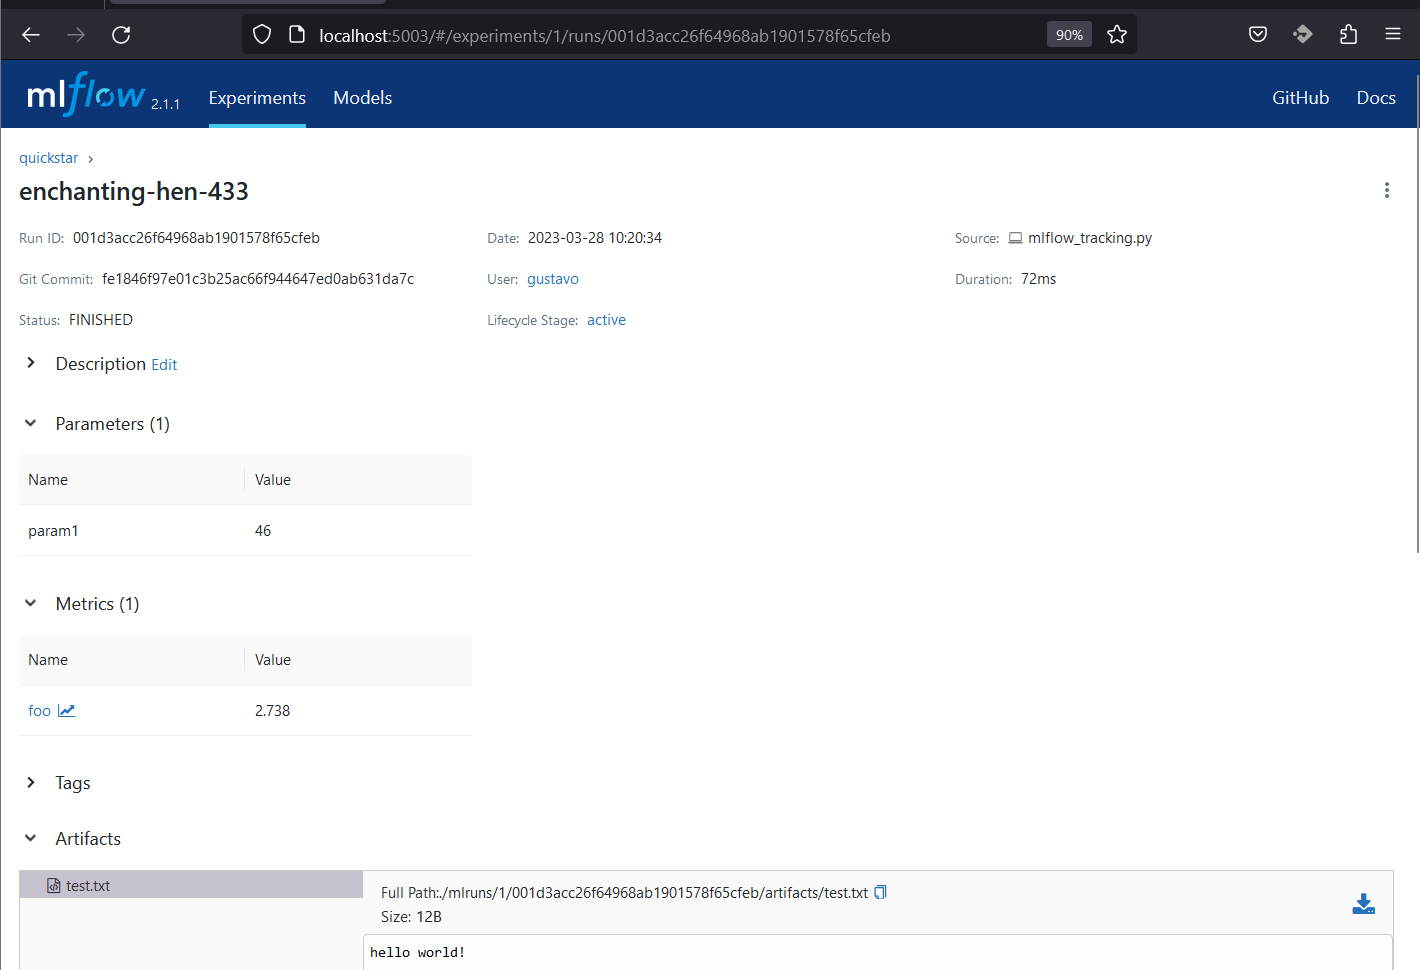
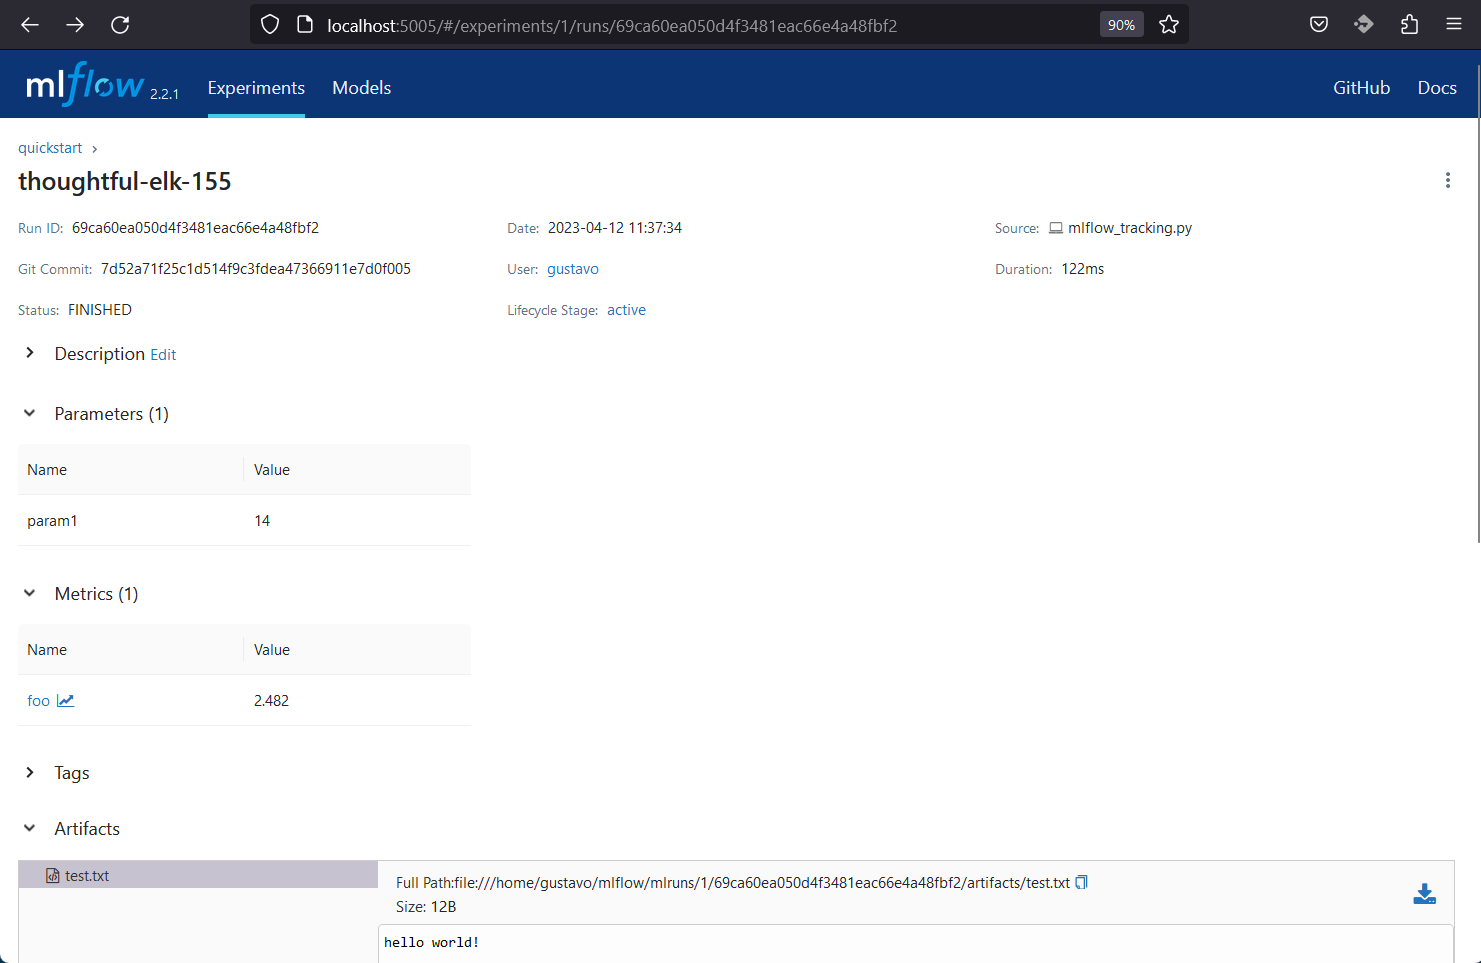
Finished and published 3_MLflow_Tracking_Server_in_Docker

diff --git a/3_MLflow_Tracking_Server_in_Docker/README.md b/3_MLflow_Tracking_Server_in_Docker/README.md
@@ -645,42 +645,50 @@ Open three different terminals under `lab3`:
 Let's inspect `lab3` folder. On **terminal 1** under `lab3`, run `tree .`:
 
 ```bash
-$ tree .
+$ tree -a .
 .
+├── .env
+├── .gitignore
 ├── .secrets
 │   ├── env-secrets
 │   ├── mysql-mlflowuser-password.txt
 │   └── mysql-root-password.txt
+├── README.md
+├── docker-compose.yml
 ├── examples
-│   ├── quickstart
+│   ├── palmer_pinguins
+│   │   ├── .gitignore
+│   │   ├── data
+│   │   │   └── penguins_classification.csv
 │   │   ├── img
 │   │   │   ├── ...
-│   │   └── mlflow_tracking.py
-│   └── palmer_pinguins
-│       ├── data
-│       │   └── penguins_classification.csv
+│   │   └── notebooks
+│   │       └── 1_Run_and_track_experiments.ipynb
+│   └── quickstart
 │       ├── img
 │       │   ├── ...
-│       └── notebooks
-│           ├── 1_Run_and_track_experiments.ipynb
-│           ├── 2_Deploy_and_manage.ipynb
-│           └── 3_Tips_and_tricks.ipynb
+│       ├── mlflow_tracking.py
+│       └── utils
+│           ├── __init__.py
+│           ├── __pycache__
+│           │   ├── __init__.cpython-310.pyc
+│           │   └── process_info.cpython-310.pyc
+│           └── process_info.py
 ├── mlflow
 │   ├── .dockerignore
-│   ├── conda.yml
-│   ├── Dockerfile
+│   ├── Dockerfile-as-gustavo
+│   ├── Dockerfile-as-root
 │   ├── Dockerfile-conda
+│   ├── conda.yml
 │   ├── entrypoint-conda-dev.sh
 │   ├── entrypoint-pip-dev.sh
 │   ├── entrypoint.sh
 │   └── requirements.txt
-├── .env
-├── .gitignore
-├── docker-compose.yml
-├── README.md
 ├── show_all.sh
 ├── stack_deploy.sh
 └── stack_remove.sh
+
+11 directories, 60 files
 ```
 
 We have the same two examples as before:
@@ -750,11 +758,12 @@ Process Status: R (running)
 Process UID: 1000
 Process Owner: gustavo
 Current tracking uri: http://localhost:5005
+INFO mlflow.tracking.fluent: Experiment with name 'quickstart' does not exist. Creating a new experiment.
 Current artifact store uri: file:///home/gustavo/mlflow/mlruns/1
 Current working directory: /home/gustavo/training/GitHub/Training.MLOps.MLFlow/lab3
 Temporal directory '/home/gustavo/training/GitHub/Training.MLOps.MLFlow/lab3/examples/quickstart/outputs' created
 Tracked artifacts in temp 'examples/quickstart/outputs' folder!
-Artifacts full path: file:///home/gustavo/mlflow/mlruns/0/c38ace2a2b7b4a239246f7639ef940c6/artifacts
+Artifacts full path: file:///home/gustavo/mlflow/mlruns/1/69ca60ea050d4f3481eac66e4a48fbf2/artifacts
 Temporal directory '/home/gustavo/training/GitHub/Training.MLOps.MLFlow/lab3/examples/quickstart/outputs' has been removed successfully
 ```
 
@@ -769,13 +778,37 @@ Once again, we have managed to track parameters, metrics and a dummy artifact 't
 ## 6. How MLflow records the path to the artifact store for each experiment
 [Go to Index](./README.md#3-move-your-mlflow-tracking-server-to-docker)
 
-MLflow records an URI to the artifact store for each experiment by creating an artifact repository for each run, and storing the URI to the repository in the MLflow server. When an artifact is logged using MLflow, it is saved by the client in the artifact repository associated with the current run. The URI to the artifact store is specified by setting the `DEFAULT_ARTIFACT_ROOT` server environment variable, or by passing the `--default-artifact-root` flag to the mlflow server command, and the client gets that URI by asking the server. The client knows what tracking server to ask thanks to the `MLFLOW_TRACKING_URI` client's environment variable.
+MLflow records an URI to the artifact store for each experiment by creating an artifact repository for each run, and storing the URI to the repository in the MLflow server. 
+
+See the column `artifact_location` in the `experiments` table in the MLflow server database:
+
+<img src='./examples/quickstart/img/quickstart_experiment_artifacts_location.png' alt='' width='1000'>
+
+When an artifact is logged using MLflow, it is saved by the client in the artifact repository associated with the current run. The URI to the artifact store is specified by setting the `DEFAULT_ARTIFACT_ROOT` server environment variable, or by passing the `--default-artifact-root` flag to the mlflow server command, and the client gets that URI by asking the server. The client knows what tracking server to ask thanks to the `MLFLOW_TRACKING_URI` client's environment variable.
+
+In our Scenario 3b, once the client has been instructed to use the MLflow HTTP tracking server, it will ask the server for the URI to the artifact store. The server will respond with the URI to the artifact store that was recorded in the experiment properties in the server database. This URI is the one that was set by the `--default-artifact-root` flag when the server was launched.
+
+Then, the client tracks the artifacts for the current run locally in the `mlruns` folder:
+
+```bash
+$ tree /home/gustavo/mlflow/mlruns
+
+/home/gustavo/mlflow/mlruns
+└── 1
+    └── 69ca60ea050d4f3481eac66e4a48fbf2
+        └── artifacts
+            └── test.txt
+```
+
+and the server will record the URI to the artifact store for this particular run in the database:
+
+<img src='./examples/quickstart/img/quickstart_first_run_artifacts_location.png' alt='' width='1000'>
 
 The ability to record the URI to the artifact store for each experiment is important in scenarios where the tracking server and client are running on different machines, as it allows both, the client and the server, to locate and retrieve artifacts associated with a particular experiment.
 
-If the kind of URI to the artifact store is a folder path, and client and server are in two different machines, then we are dealing with paths in two different file systems. When the server reports to the client its path to the artifact store (as it was recorded in the experiment properties in the server database), it can potentially report an invalid path for the client and it can cause issues with accessing the artifacts. This is the case for our client and server in Scenario 3b, and the reason why this is not an official scenario.
+If the kind of URI to the artifact store **is a folder path**, and client and server are in two different machines, **then we are dealing with paths in two different file systems**. When the server reports to the client its path to the artifact store (as it was recorded in the experiment properties in the server database), it can potentially report an invalid path for the client and it can cause issues with accessing the artifacts. This is the case for our client and server in Scenario 3b, and possibly the reason why this is not an official scenario.
 
-The good news is that you can easily overcome these potential issues. You just need to ensure that the client and server are both directed to the same artifacts folder by forcing them to use the exact same artifacts folder path and - thanks to Docker - by bind mounting this two folders. Note that you will only need set the environment variable for the artifact store path on the server. The only way the client will correctly get that folder path by asking the server.  
+**The good news is that you can easily overcome these potential issues**. You just need to ensure that the client and server are both directed to the same artifacts folder by forcing them to use the **exact same artifacts folder path route** and - thanks to Docker - by **bind mounting this two folders**. Note that you will only need set the environment variable for the artifact store path on the server. The only way the client will correctly get that folder path by asking the server.  
 
 In our example we have used a single route `/home/gustavo/mlflow` in both, the client and the dockerized server, and then bind mounted this two folders in the `docker-compose.yml` file:
 
@@ -792,15 +825,13 @@ services:
             - /home/gustavo/mlflow:/home/gustavo/mlflow
 ```
 
-A more general solution to address this scenario is to use a shared network file system, such as NFS, or a distributed file system like Hadoop Distributed File System (HDFS) or GlusterFS. By doing so, you eliminate the need for paths on different file systems, as now both the client and server would be using the same shared file system. This ensures that the artifact store is easily accessible by both the client and server, without any issues related to different file systems.
+A more general solution to address this scenario is **to use a shared network file system**, such as NFS, or a distributed file system like Hadoop Distributed File System (HDFS) or GlusterFS. By doing so, you eliminate the need for paths on different file systems, as now both the client and server would be using the same shared file system. This ensures that the artifact store is easily accessible by both the client and server, without any issues related to different file systems.
 
-Additionally, you can also configure MLflow to use a cloud-based storage solution like Azure Blob Storage or Amazon S3, which would eliminate the need for coordinating file systems as we have shown here
-
+Additionally, **you can also configure MLflow to use a cloud-based storage solution like Azure Blob Storage or Amazon S3**, which would eliminate the need for coordinating file systems as we have shown here.
 
 ## 7. Summary
 [Go to Index](./README.md#3-move-your-mlflow-tracking-server-to-docker)
 
 In this article, we've explored the Scenario 3b, a use case for MLflow in which the tracking server and client are potentially running on different machines, with the server in a docker host. We've shown how to build a basic Docker image for MLflow, as well as a better Docker image that runs as a non-root user and an alternative Docker image that uses Conda. We've also demonstrated how to use MariaDB/MySQL as a tracking backend storage and how to create a Docker stack for MLflow. We've covered how to run Scenario 3b by setting the HTTP tracking server's backend store and the MLflow client's artifacts store, launched a new Dockerized MLflow tracking server, and used the 'quickstart' example. Finally, we've discussed how MLflow records the path to the artifact store for each experiment and why that's important in Scenario 3b.
 
-Stay tuned for the next issue where we will discuss how to migrate your Artifact Store to an emulated Azure Blob Storage running locally and a real one in the cloud.
-
+Stay tuned for the next issue where we will discuss how to migrate your Artifact Store to an emulated Azure Blob Storage running locally and to a real one in the cloud.
